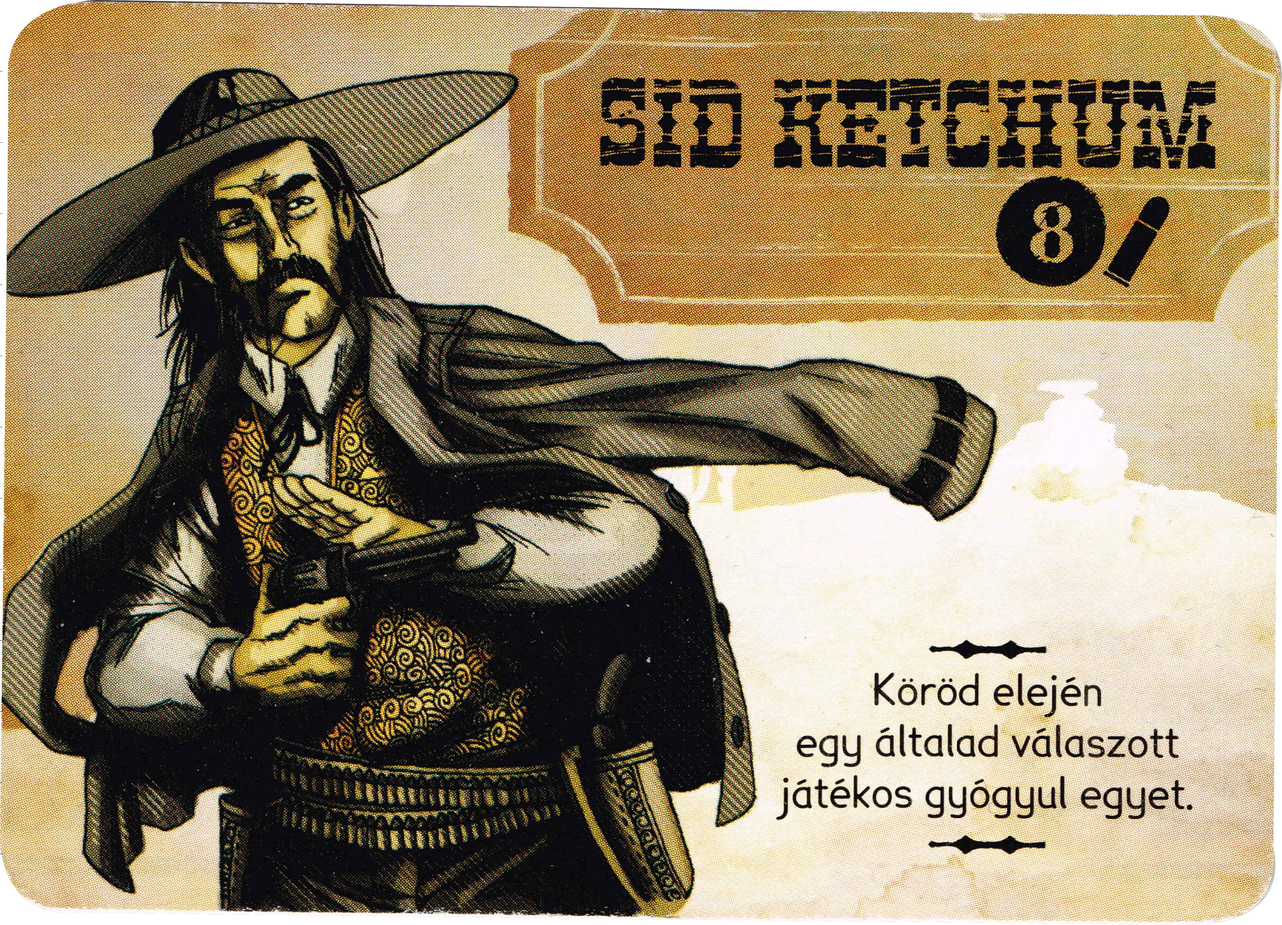
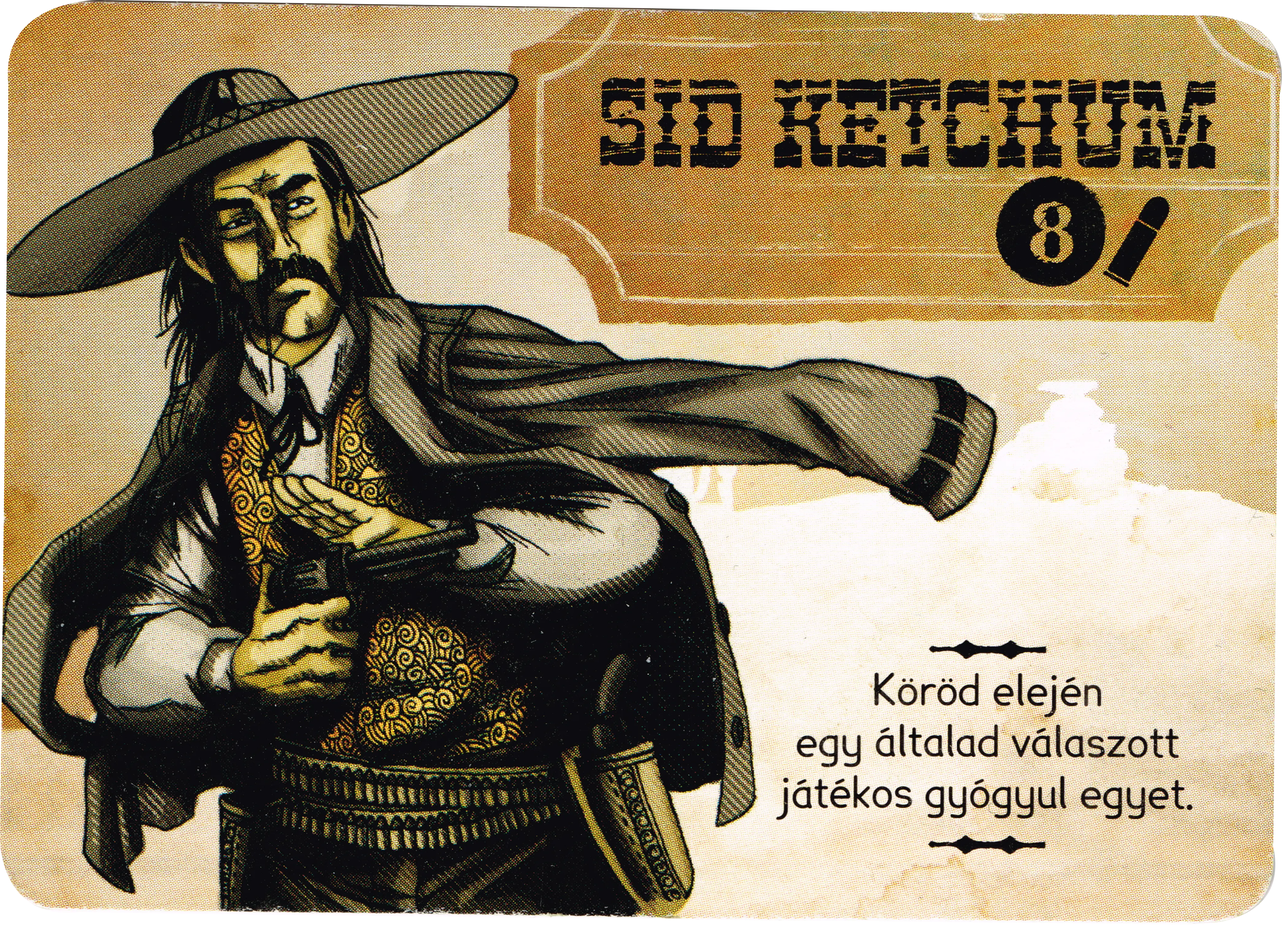
replaced images

diff --git a/public/game.js b/public/game.js
@@ -90,10 +90,10 @@ let socket = io();
             pName.appendChild(document.createTextNode(p.name));
             pLife.appendChild(document.createTextNode(p.life));
             pArrows.appendChild(document.createTextNode(p.arrows));
-            pChar.src = 'images/c_'+p.character.name+'.jpg';
-            pRole.src= 'images/r_'+playerRole+'.jpg';
-            pArrowsImg.src='images/arrow.png';
-            pLifeImg.src='images/bullet.png';
+            pChar.src = 'images/c_'+p.character.name+'.webp';
+            pRole.src= 'images/r_'+playerRole+'.webp';
+            pArrowsImg.src='images/arrow.webp';
+            pLifeImg.src='images/bullet.webp';
 
             pDivName.appendChild(pName);
             pDivLifeArrows.appendChild(pLife);
@@ -148,7 +148,7 @@ let socket = io();
               pDataDiv.children[0].children[0].children[0].textContent=p.name;
               pDataDiv.children[0].children[1].children[0].textContent=p.life;
               pDataDiv.children[0].children[1].children[2].textContent=p.arrows;
-              if (p.life<=0) pDataDiv.children[1].children[0].src= 'images/r_'+p.role+'.jpg';
+              if (p.life<=0) pDataDiv.children[1].children[0].src= 'images/r_'+p.role+'.webp';
             }
           document.getElementById('arrowsLeft').textContent = 'Maradt '+arrowsLeft+' nyíl';
           
@@ -299,7 +299,7 @@ let socket = io();
       function drawDices(dices){
         document.getElementById('dices').style.display = 'block';
         for (let i = 0; i < 5;i++){
-          diceElements[i].src = 'images/d'+(dices[i].type)+'.png';
+          diceElements[i].src = 'images/d'+(dices[i].type)+'.webp';
           diceElements[i].setAttribute('onclick',`diceDropdown(${i})`);
           if (dices[i].abilityActivated) {
             diceElements[i].classList.add("abilityActivated");
